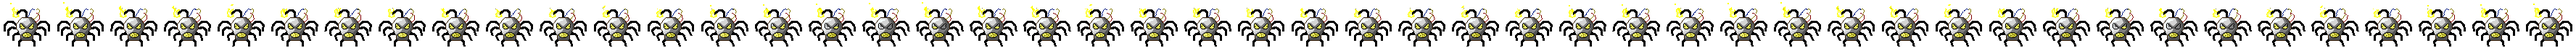
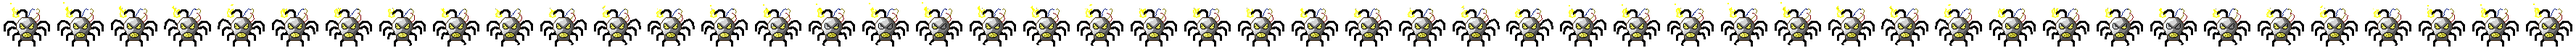
Creature-Idle-Animationen: Zwischenstand Runde 6
Claude-Session: https://claude.ai/code/session_012viCd75CxXBFivUDTdiQFQ

diff --git a/scripts/creature-animations/giant_exploding_skull.py b/scripts/creature-animations/giant_exploding_skull.py
@@ -24,8 +24,9 @@ Fest bleiben: Schädelform, Umriss, Augenform, Mundform, die starken Beinbögen.
 
 Ablauf (48 Frames à 65 ms = 3,12 s, nahtlos) — Konventionen der Basiskarte, langsamer wegen der Größe:
 * Schwerer Hüpfer: der ganze Riese hebt sich 1 px (Frames 4–20, ein langsamer Zyklus), sonst steht er (Frame 0 = Original).
-* Füße: die acht senkrechten Beinspitzen scharren abwechselnd 1 px nach außen und zurück (Zeilenversatz wächst zur Spitze, Periode 24, je Fuß andere Phase); der Ansatz bleibt fest, die
-  dicken Beine bleiben 4-verbunden.
+* Beine (Runde 6, ersetzt das frühere „Scharren“ der Fußspitzen): acht Spinnenbeine als eigene Ketten Hüfte → Knie → Fuß; sie tippeln in einer Tetrapod-Welle (je Bein 6 Frames: Oberschenkel schwenkt um die
+  Hüfte hoch, Fuß hebt sich 2–3 px, Fußspitze schwenkt 1 px aus, setzt wieder auf; 2 Frames Versatz von Bein zu Bein, zwei Wellen je Schleife). Hüften bleiben am Schädel, Beine überall so dick wie gemalt
+  (siehe BEINE/bein_pixel).
 * Zünddrähte: die drei Drähte schwingen im Luftzug (Zeilenversatz wächst zum freien Ende bis ±2 px, Nachlauf, Perioden 24/16/48 — die Brückenpixel gegen Lücken (verbinde_luecken8) kommen in der Farbe des Drahts).
 * Zündfunke: die Garbe am Schnurende flackert zwischen acht Posen (Pose 0 = Original, Posen 2–3 Frames; weißer Kern, unregelmäßige gelbe Strahlen von 2–6 px), dazu steigen zwölf
   1-px-Funken (Weiß → Gelb → Olivgelb) 3–5 px auf und kreiseln leicht (Partikel).
@@ -93,23 +94,86 @@ AUGE_R = [(int(y), int(x)) for y, x in _teile[1]]
 MUND = [(int(y), int(x)) for y, x in _teile[2]]
 assert len(_teile) == 3, [len(t) for t in _teile]
 AUGEN = [AUGE_L, AUGE_R]
-# Füße: (Name, Maske, y-Spanne für den Versatz (oben fest, unten maximal), Richtung nach außen (−1 links / +1 rechts), Phase)
-FUESSE = {
-    'l1': (OPAK & (xx <= 3) & (yy >= 21) & (yy <= 31) & _farbmaske(CA), (21, 31), -1, 0.0),
-    'l2': (OPAK & (xx >= 5) & (xx <= 7) & (yy >= 32) & (yy <= 37) & _farbmaske(CA), (32, 37), -1, 1.1),
-    'l3': (OPAK & (xx >= 12) & (xx <= 14) & (yy >= 38) & (yy <= 44) & _farbmaske(CA), (38, 44), -1, 2.2),
-    'r1': (OPAK & (xx >= 60) & (yy >= 21) & (yy <= 31) & _farbmaske(CA), (21, 31), 1, 3.3),
-    'r2': (OPAK & (xx >= 56) & (xx <= 58) & (yy >= 32) & (yy <= 37) & _farbmaske(CA), (32, 37), 1, 4.4),
-    'r3': (OPAK & (xx >= 49) & (xx <= 51) & (yy >= 38) & (yy <= 44) & _farbmaske(CA), (38, 44), 1, 5.5),
-    'bl': (OPAK & (xx >= 20) & (xx <= 22) & (yy >= 46) & _farbmaske(CA), (46, 52), -1, 0.7),
-    'br': (OPAK & (xx >= 41) & (xx <= 43) & (yy >= 46) & _farbmaske(CA), (46, 52), 1, 3.9),
+# ── Runde 6: ACHT SPINNENBEINE als eigene Ketten (Nutzer: „Anatomie einer Spinne mit den acht dicken schwarzen Beinen; die Beine sollen sich bewegen wie Spinnenbeine“) ──
+# Je Seite vier Beine (links; rechts spiegelbildlich, x → 63 − x), jedes = Hüfte (am Schädel, fest) → Oberschenkelbogen → Knie → Unterschenkel (senkrecht) → Fuß:
+#   Bein 1: Hüfte (15–16, 20–23), Bogen Zeilen 17–19 über x 3–15, Knie-Ecke (0–5, 17–22), Unterschenkel x 0–3 bis Fuß Zeile 31
+#   Bein 2: Hüfte (13–16, 26–28), Bogen Zeilen 25–28 über x 6–14, Unterschenkel x 5–9 bis Fuß Zeile 37
+#   Bein 3: Hüfte (18–22, 31–36), Bogen Zeilen 34–36 über x 13–21, Unterschenkel x 12–15 bis Fuß Zeile 44
+#   Bein 4: Hüfte unter dem Schädel (20–25, 42–44, fest), Bein x 20–24 Zeilen 45–52 (zeigt nach vorn/unten)
+# Schritt (Tippeln): der Oberschenkel schwenkt starr um die Hüfte nach oben (Spaltenversatz, Gefälle ≤ 1 px je Spalte, Hüftspalten bleiben am Schädel), Knie und Unterschenkel gehen als Ganzes mit (Fuß hebt sich
+# 2–3 px vom Boden), am höchsten Punkt schwenkt die Fußspitze 1 px nach außen (Zeilenversatz der untersten Zeilen), dann setzt der Fuß wieder auf. Nichts wird gestreckt oder gestaucht: jede Spalte/Zeile
+# behält ihre Pixel, das Bein bleibt überall so dick wie gemalt. Bein 4 (senkrecht, kein Bogen) beugt stattdessen das Knie nach außen (Zeilen 47 ff. weichen 1–2 px aus, der Fuß hebt sich 1–2 px; Beinlänge
+# entlang des Knicks bleibt ≈ gleich). Frame 0 = Original (alle acht Füße am Boden).
+SCHWARZ = _farbmaske(CA)
+_BEIN_L = {
+    1: SCHWARZ & (((yy >= 17) & (yy <= 24) & (xx <= 16)) | ((yy >= 25) & (yy <= 31) & (xx <= 2))),
+    2: SCHWARZ & (((yy >= 25) & (yy <= 28) & (xx >= 6) & (xx <= 16)) | ((yy >= 29) & (yy <= 37) & (xx >= 5) & (xx <= 9))),
+    3: SCHWARZ & (((yy >= 31) & (yy <= 36) & (xx >= 13) & (xx <= 22)) | ((yy >= 37) & (yy <= 44) & (xx >= 12) & (xx <= 15))),
+    4: SCHWARZ & (yy >= 45) & (xx >= 20) & (xx <= 24),
 }
-for _k, (_m, _sp, _d, _ph) in FUESSE.items():
-    assert int(_m.sum()) > 8, (_k, int(_m.sum()))
-BEWEGT = FUNKE | DRAHT_B | DRAHT_M | DRAHT_O
-for _m, _sp, _d, _ph in FUESSE.values():
-    BEWEGT = BEWEGT | _m
+# je Bein: Hüftspalte x0 (ab dort Versatz 0), Spannweite des Schwenks in Spalten, größter Hub, Unterschenkel (x ≤ …, y ≥ …), Fußspitze (y ≥ …: schwenkt 1 px nach außen)
+_BEIN_PAR = {1: dict(x0=15, spann=9, hub=3, us=(3, 22), spitze=27), 2: dict(x0=14, spann=5, hub=2, us=(9, 30), spitze=34), 3: dict(x0=17, spann=3, hub=2, us=(15, 38), spitze=41), 4: dict(hub=2)}
+BEINE = {}
+for _nr, _m in _BEIN_L.items():
+    BEINE['l%d' % _nr] = (_m, _nr, False)
+    BEINE['r%d' % _nr] = (_m[:, ::-1], _nr, True)
+_alle = np.zeros((sh, sw), bool)
+for _k, (_m, _nr, _sp) in BEINE.items():
+    assert int(_m.sum()) > 20 and not (_alle & _m).any(), _k
+    assert cv2.connectedComponents(_m.astype(np.uint8), connectivity=4)[0] == 2, ('Bein nicht 4-verbunden', _k)
+    _alle |= _m
+assert (_alle <= SCHWARZ).all() and int((SCHWARZ & (yy >= 45) & ~_alle).sum()) == 0
+BEWEGT = FUNKE | DRAHT_B | DRAHT_M | DRAHT_O | _alle
 BASIS = OPAK & ~BEWEGT
+
+# Schrittfolge (Tetrapod-Welle: es heben nie zwei Nachbarbeine derselben Seite zugleich; je Bein 6 Frames, 2 Frames versetzt, zwei Wellen je Schleife, dazwischen kurze Ruhe)
+SCHRITT_HUB = {3: [1, 2, 3, 3, 2, 1], 2: [1, 2, 2, 2, 2, 1]}
+SCHRITT_AUS = [0, 0, 1, 1, 0, 0]
+FOLGE_BEINE = [['l1', 'r2', 'l3', 'r4', 'r1', 'l2', 'r3', 'l4'], ['r1', 'l2', 'r3', 'l4', 'l1', 'r2', 'l3', 'r4']]
+SCHRITT = {k: {} for k in BEINE}                                                      # Bein → {Frame: (Hub, Ausschwenken)}
+for _w, _folge in enumerate(FOLGE_BEINE):
+    for _j, _k in enumerate(_folge):
+        _hub = SCHRITT_HUB[_BEIN_PAR[BEINE[_k][1]]['hub']]
+        for _t in range(6):
+            SCHRITT[_k][_w * 24 + 1 + 2 * _j + _t] = (_hub[_t], SCHRITT_AUS[_t])
+assert all(max(v) < N and 0 not in v for v in SCHRITT.values())
+BEIN4_KNICK = {0: None, 1: [0, 1, 1, 1, 0], 2: [1, 2, 2, 1]}                           # Ausweichen der 3-px-Zeilen ab Zeile 47 nach außen (Liste = verbleibende Zeilen; Fuß 1 bzw. 2 px höher)
+
+
+def bein_pixel(nr, d, aus):
+    """Pixel (x, y im Sprite, LINKE Seite) von Bein nr beim Hub d (Fuß d px über dem Boden) und Ausschwenken der Fußspitze um `aus` px."""
+    ys, xs = np.nonzero(_BEIN_L[nr])
+    pts = list(zip(xs.tolist(), ys.tolist()))
+    if not d:
+        return pts
+    out = []
+    if nr == 4:
+        knick = BEIN4_KNICK[d]
+        for (x, y) in pts:
+            if y <= 46:
+                out.append((x, y))
+            elif y - 47 < len(knick):
+                out.append((x - knick[y - 47], y))
+        return out
+    par = _BEIN_PAR[nr]
+    for (x, y) in pts:
+        s = int(round(d * min(1.0, max(0.0, (par['x0'] - x) / float(par['spann'])))))
+        nx = x - (aus if (x <= par['us'][0] and y >= par['spitze']) else 0)
+        out.append((nx, y - s))
+    return out
+
+
+def _bein(name, i):
+    maske, nr, spiegel = BEINE[name]
+    d, aus = SCHRITT[name].get(i, (0, 0))
+    out = L.leer(H, W)
+    for (x, y) in bein_pixel(nr, d, aus):
+        X, Y = PAD_L + (sw - 1 - x if spiegel else x), PAD_T + y
+        if not (0 <= X < W and 0 <= Y < H):
+            raise L.ClipError(f'Bein {name}: Pixel ({X},{Y}) außerhalb der Leinwand')
+        out[Y, X] = (0, 0, 0, 255)
+    return out
+
 
 # Drähte: (Maske, Pivot-Zeile (Ansatz), Amplitude, Periode, Phase)
 DRAEHTE = {'blau': (DRAHT_B, 11, 2.2, 24, 0.0), 'oliv': (DRAHT_O, 14, 2.2, 16, 1.7), 'rot': (DRAHT_M, 18, 2.2, 48, 3.0)}
@@ -144,24 +208,6 @@ FUNKEN_POSE = [None] + [A.strahlenfunke(_rnd, (16, 8), CL, CG, kern_pixel=[(-1, 
                                          n_strahlen=(8, 10), laenge=(3, 6), box=(7, 1, 22, 15), dick=0.85) for _ in range(7)]
 FOLGE_F = A.pose_folge(random.Random(21), 8, tempo=(2, 3))
 ZUENDFUNKEN = [(2, -1), (6, 0), (10, 1), (14, -1), (18, 0), (22, 1), (26, -1), (30, 0), (34, 1), (38, -1), (42, 0), (46, 1)]       # Startframe, seitlicher Weg
-
-
-def _fuss(sp_ebene, name, i):
-    """Fuß (Maske `name`): Zeilenversatz wächst von 0 (Ansatz, oberste Zeile) zur Spitze auf bis ±1 px nach außen; Frame 0 = Quellform."""
-    maske, (y0, y1), richtung, phi = FUESSE[name]
-    layer = L.platz(np.where(maske[..., None], sp_ebene, 0).astype(np.uint8), H, W, PAD_L, PAD_T)
-    out = L.leer(H, W)
-    for y in range(PAD_T + y0, PAD_T + y1 + 1):
-        xs = np.nonzero(layer[y, :, 3])[0]
-        if not len(xs):
-            continue
-        frac = (y - (PAD_T + y0)) / float(max(1, y1 - y0))
-        dx = richtung * int(round(1.5 * frac * (math.sin(2 * math.pi * i / 24 + phi) - math.sin(phi))))      # 0 in Frame 0
-        if xs.min() + dx < 0 or xs.max() + dx >= W:
-            raise L.ClipError(f'Fuß {name}: Zeile {y} würde um {dx} px aus der Leinwand')
-        for x in xs:
-            out[y, x + dx] = layer[y, x]
-    return out
 
 
 def _draht(sp_ebene, name, i):
@@ -213,8 +259,8 @@ def figur(i):
     sp = sprite_mit_effekten(i)
     dyb = HOP[i]
     ebenen = [(L.platz(np.where(BASIS[..., None], sp, 0).astype(np.uint8), H, W, PAD_L, PAD_T), 0, dyb)]
-    for name in FUESSE:
-        ebenen.append((_fuss(sp, name, i), 0, dyb))
+    for name in BEINE:
+        ebenen.append((_bein(name, i), 0, dyb))
     for name in DRAEHTE:
         ebenen.append((_draht(sp, name, i), 0, dyb))
     neu = FUNKE | (~OPAK & (sp[..., 3] > 0))                                      # Funkengarbe (Original und neu gesetzte Pixel)
@@ -263,7 +309,7 @@ def frame(i):
 
 if __name__ == '__main__':
     print('Augen:', [len(a) for a in AUGEN], 'Mund:', len(MUND), '| Lidfarben:', sorted(set(LID.values())), '| Funke:', int(FUNKE.sum()),
-          '| Drähte (blau/oliv/rot):', int(DRAHT_B.sum()), int(DRAHT_O.sum()), int(DRAHT_M.sum()), '| Füße:', {k: int(v[0].sum()) for k, v in FUESSE.items()})
+          '| Drähte (blau/oliv/rot):', int(DRAHT_B.sum()), int(DRAHT_O.sum()), int(DRAHT_M.sum()), '| Beine:', {k: int(v[0].sum()) for k, v in BEINE.items()})
     frames = [frame(i) for i in range(N)]
     fs = [figur(i) for i in range(N)]
     figs = [f['fig'] for f in fs]
